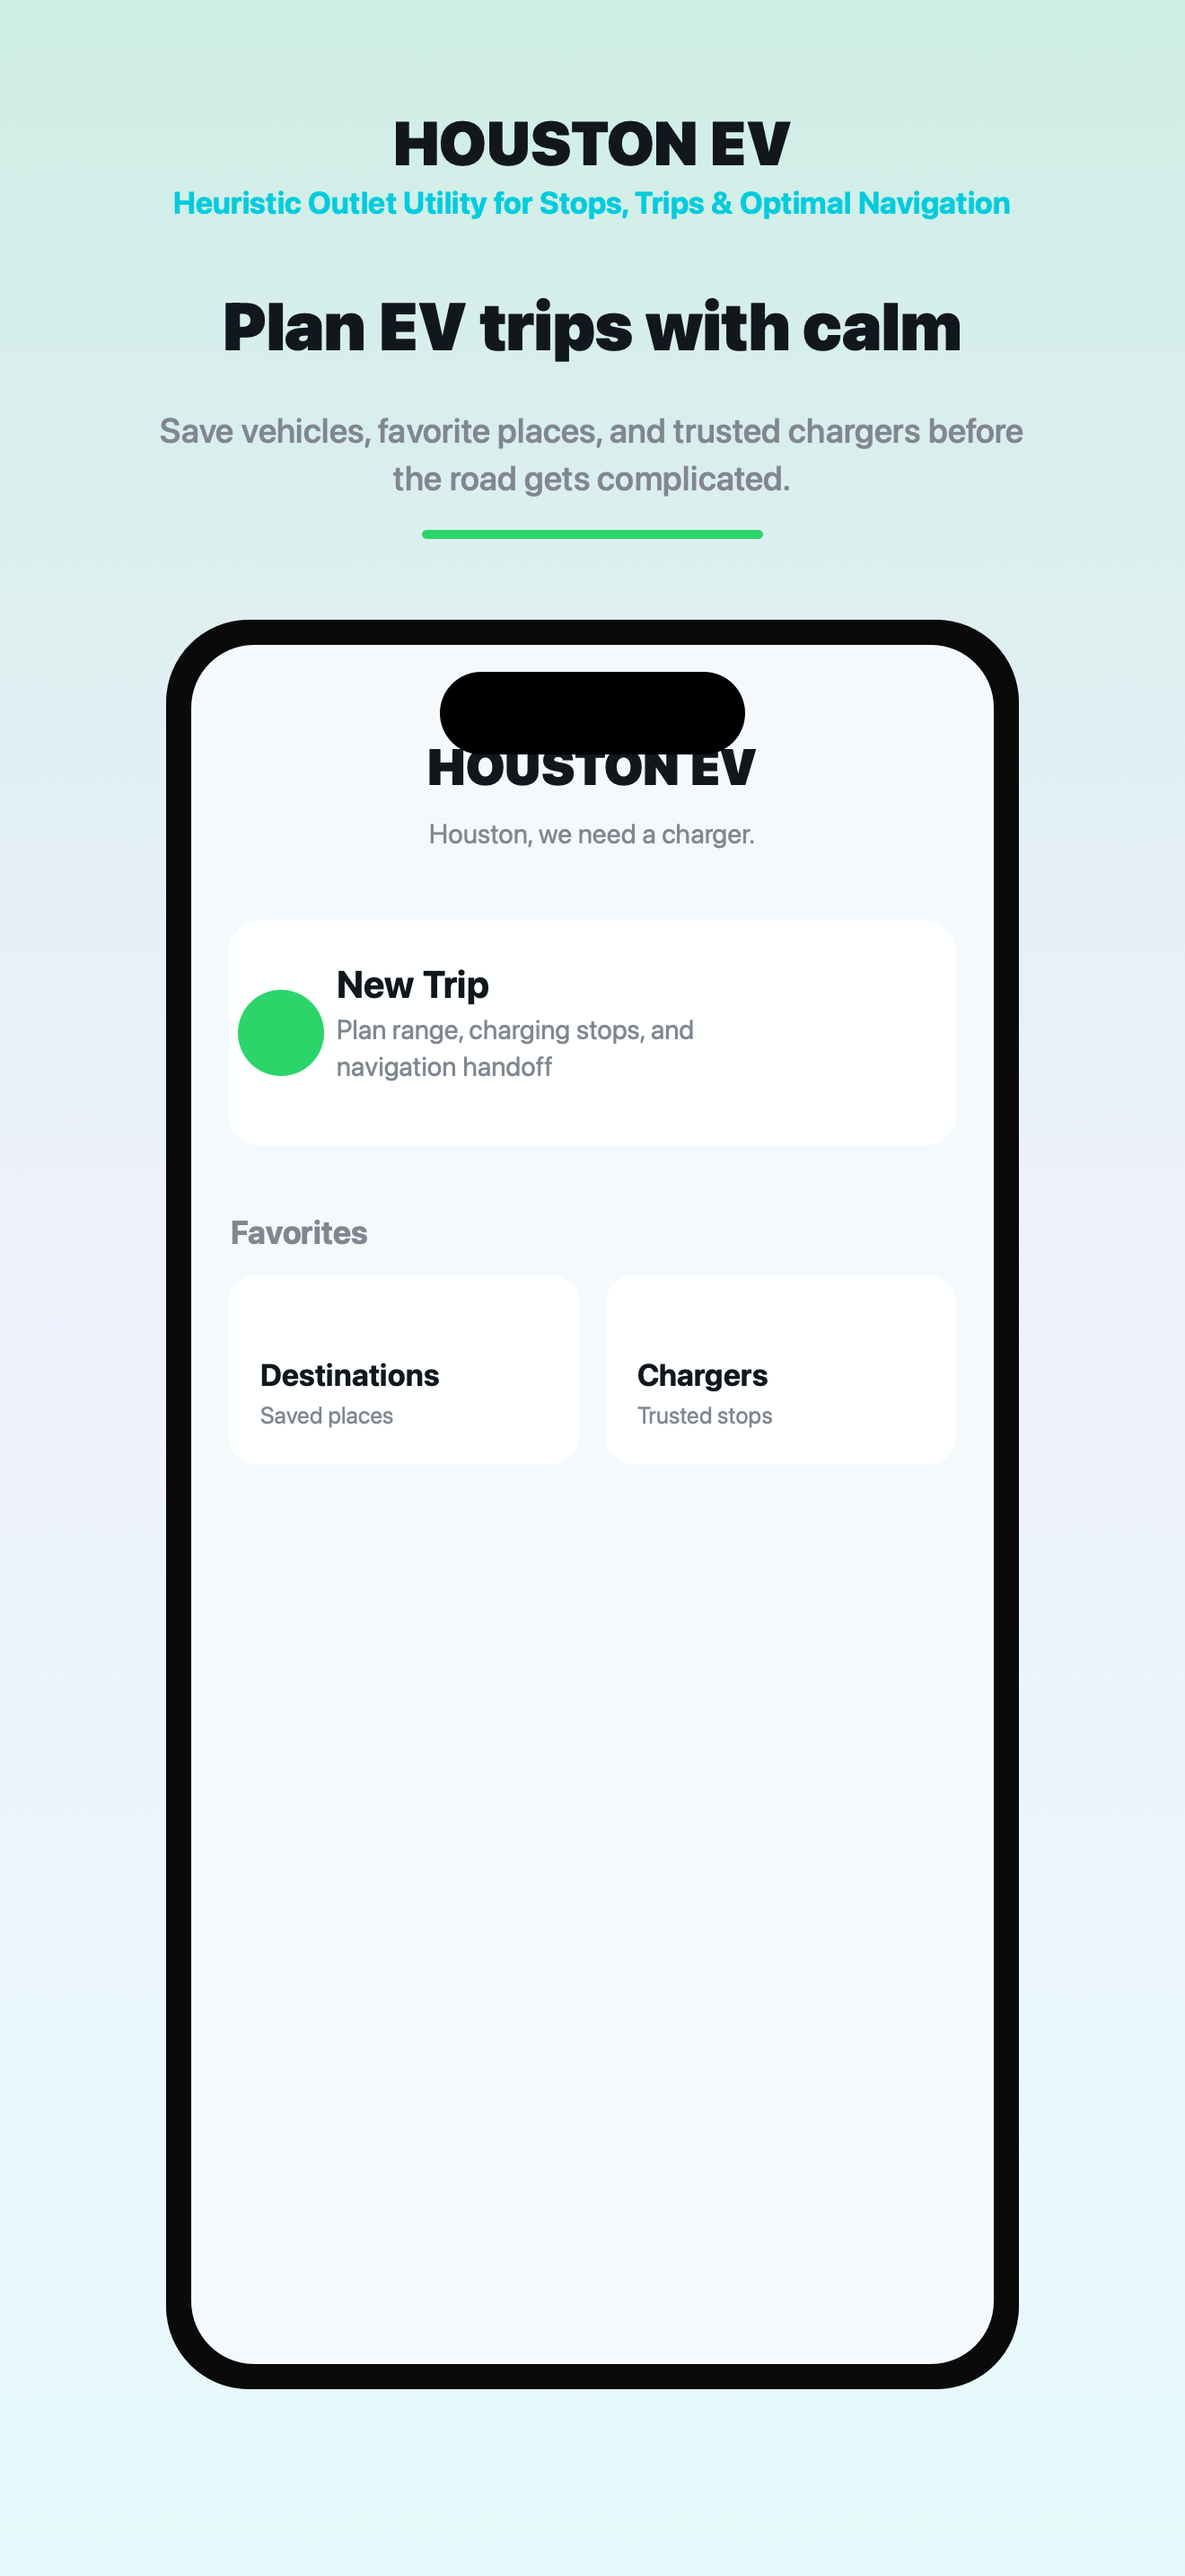
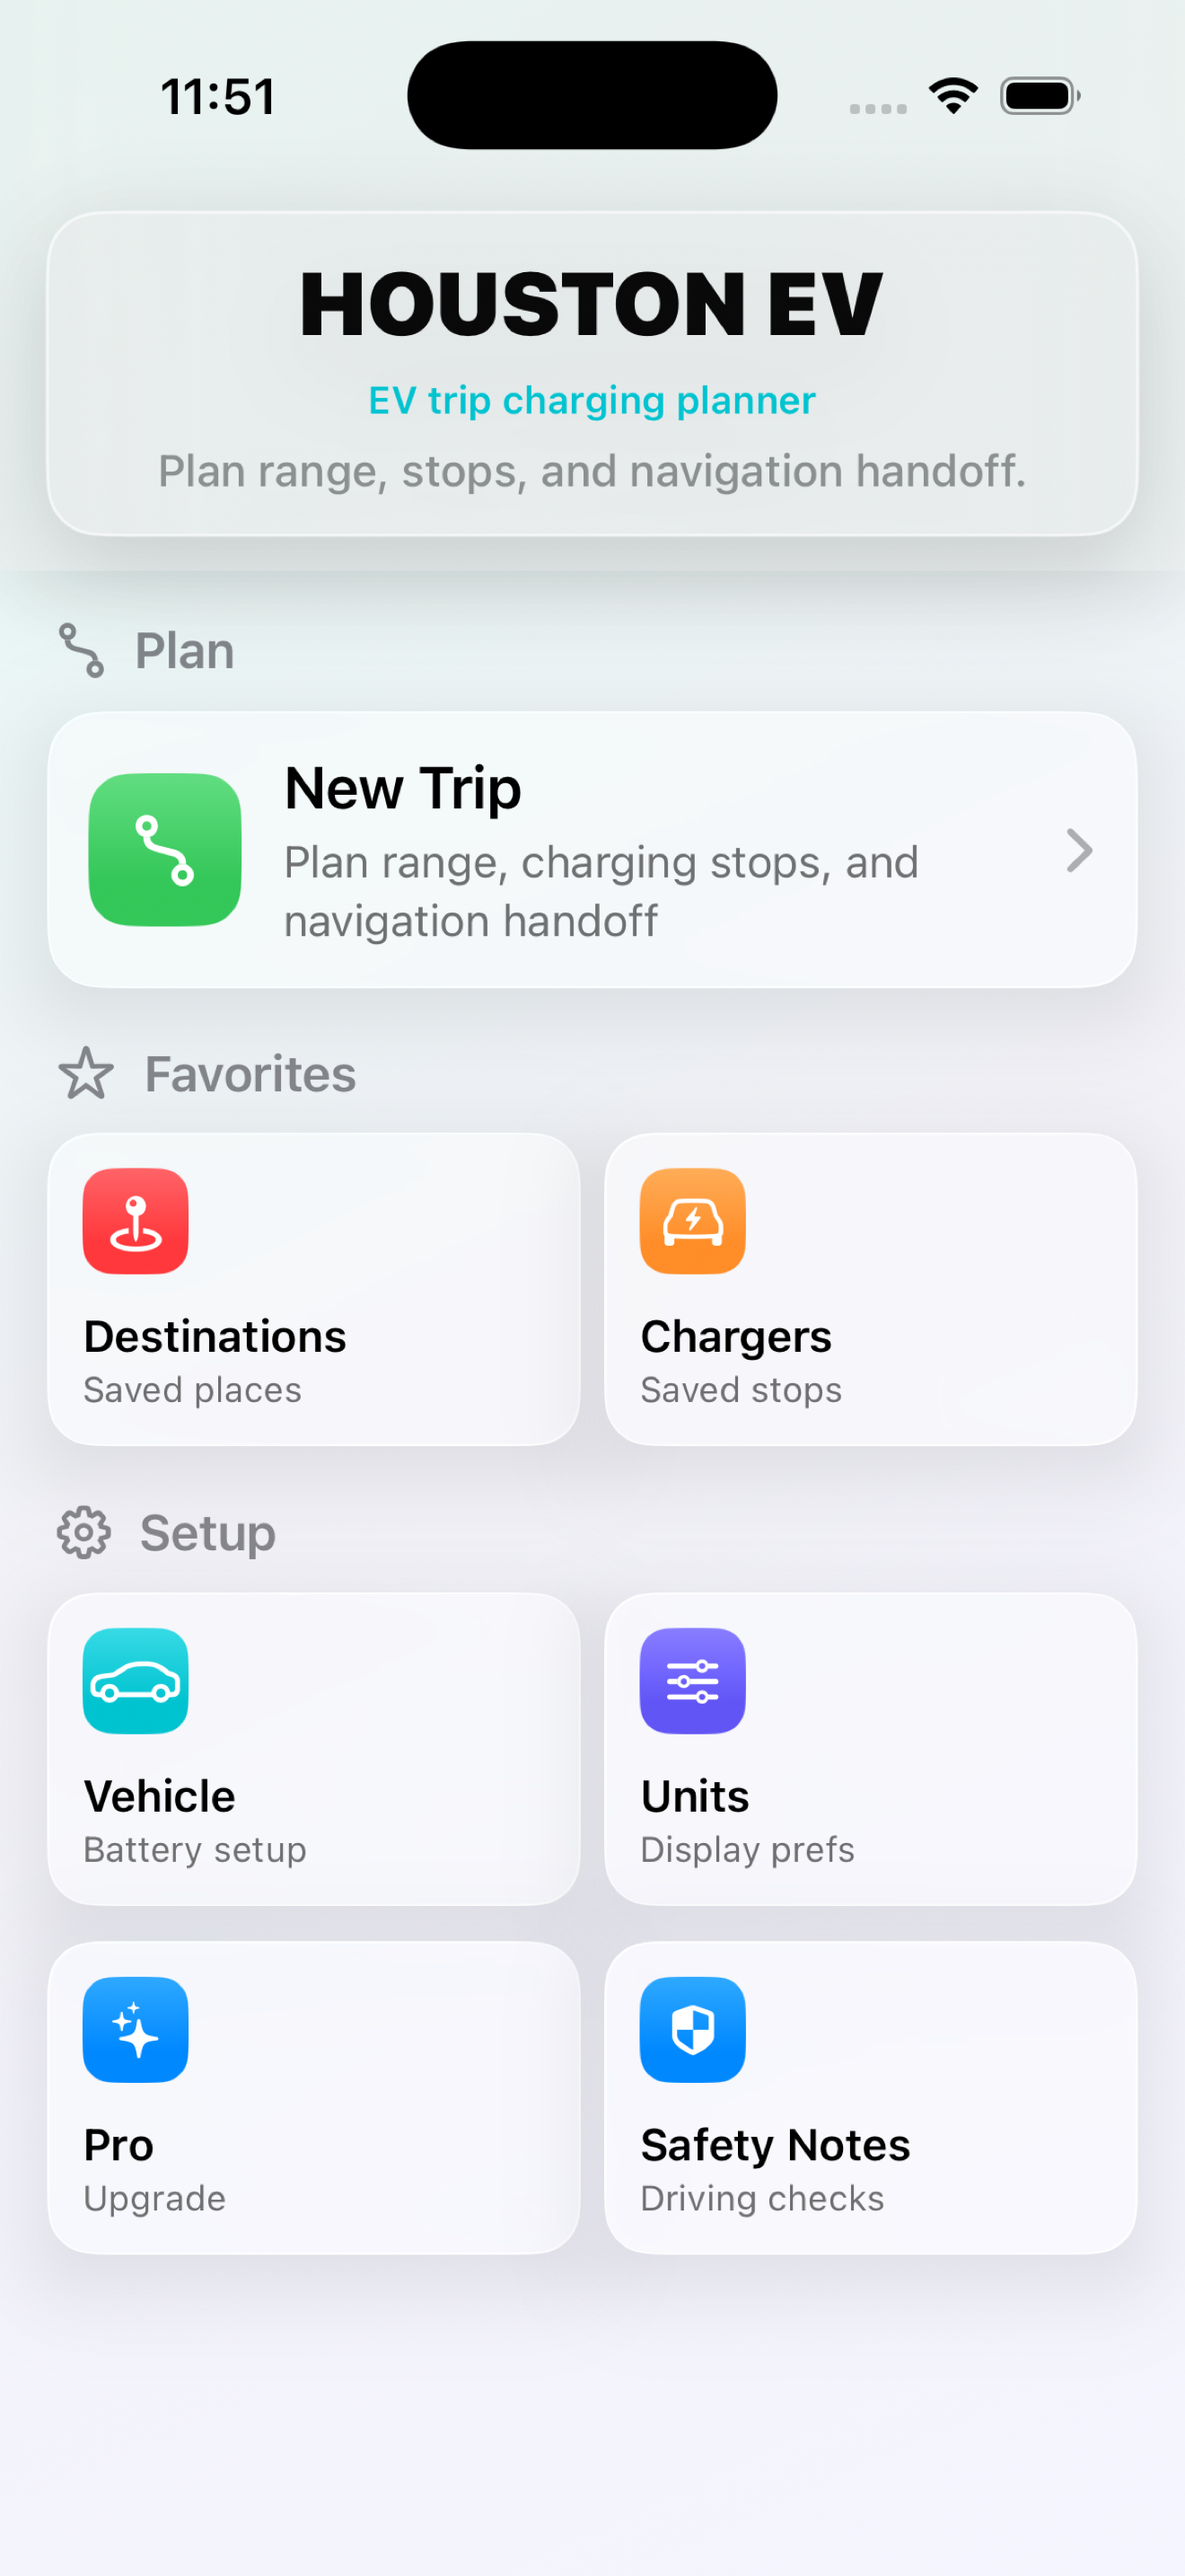
Sync Houston EV screenshots

diff --git a/houston-ev/index.html b/houston-ev/index.html
@@ -45,10 +45,10 @@
           </div>
           <div class="phone-stack" aria-label="HOUSTON EV app screenshots">
             <div class="phone back">
-              <img src="/houston-ev/assets/screenshot-routes.png" alt="HOUSTON EV route options screen">
+              <img src="/houston-ev/assets/screenshot-new-trip.png" alt="HOUSTON EV new trip setup screen">
             </div>
             <div class="phone front">
-              <img src="/houston-ev/assets/screenshot-home.png" alt="HOUSTON EV trip planning home screen">
+              <img src="/houston-ev/assets/screenshot-home.png" alt="HOUSTON EV home screen">
             </div>
           </div>
         </div>
@@ -91,25 +91,25 @@
       <section class="screenshots">
         <div class="section">
           <div class="section-heading">
-            <h2>Route options, charging stops, and safety notes</h2>
+            <h2>Trip setup, vehicle range, and safety notes</h2>
             <p>HOUSTON EV owns the EV planning logic. Navigation apps remain external guidance tools.</p>
           </div>
           <div class="screenshot-row">
             <figure>
-              <img src="/houston-ev/assets/screenshot-home.png" alt="Trip setup in HOUSTON EV">
-              <figcaption>Plan a trip</figcaption>
+              <img src="/houston-ev/assets/screenshot-home.png" alt="HOUSTON EV home screen">
+              <figcaption>Start planning</figcaption>
             </figure>
             <figure>
-              <img src="/houston-ev/assets/screenshot-routes.png" alt="Apple Maps route comparison in HOUSTON EV">
-              <figcaption>Compare routes</figcaption>
+              <img src="/houston-ev/assets/screenshot-new-trip.png" alt="New trip setup in HOUSTON EV">
+              <figcaption>Set up a trip</figcaption>
             </figure>
             <figure>
-              <img src="/houston-ev/assets/screenshot-charging-stop.png" alt="Charging stop detail in HOUSTON EV">
-              <figcaption>Review chargers</figcaption>
+              <img src="/houston-ev/assets/screenshot-vehicle.png" alt="Vehicle setup in HOUSTON EV">
+              <figcaption>Add vehicle range</figcaption>
             </figure>
             <figure>
-              <img src="/houston-ev/assets/screenshot-active-trip.png" alt="Active trip recalculation in HOUSTON EV">
-              <figcaption>Update on the road</figcaption>
+              <img src="/houston-ev/assets/screenshot-pro.png" alt="HOUSTON EV Pro screen">
+              <figcaption>Unlock Pro</figcaption>
             </figure>
             <figure>
               <img src="/houston-ev/assets/screenshot-safety.png" alt="Safety notes in HOUSTON EV">

diff --git a/houston-ev/compliance/index.html b/houston-ev/compliance/index.html
@@ -33,8 +33,8 @@
       <p class="lead">Product safety, compliance labels, and contact information for HOUSTON EV.</p>
 
       <figure class="page-preview">
-        <img src="/houston-ev/assets/screenshot-charging-stop.png" alt="HOUSTON EV charging stop screen">
-        <figcaption>Real HOUSTON EV charging-stop screen</figcaption>
+        <img src="/houston-ev/assets/screenshot-safety.png" alt="HOUSTON EV safety notes screen">
+        <figcaption>Real HOUSTON EV safety notes screen</figcaption>
       </figure>
 
       <section class="content-section">
